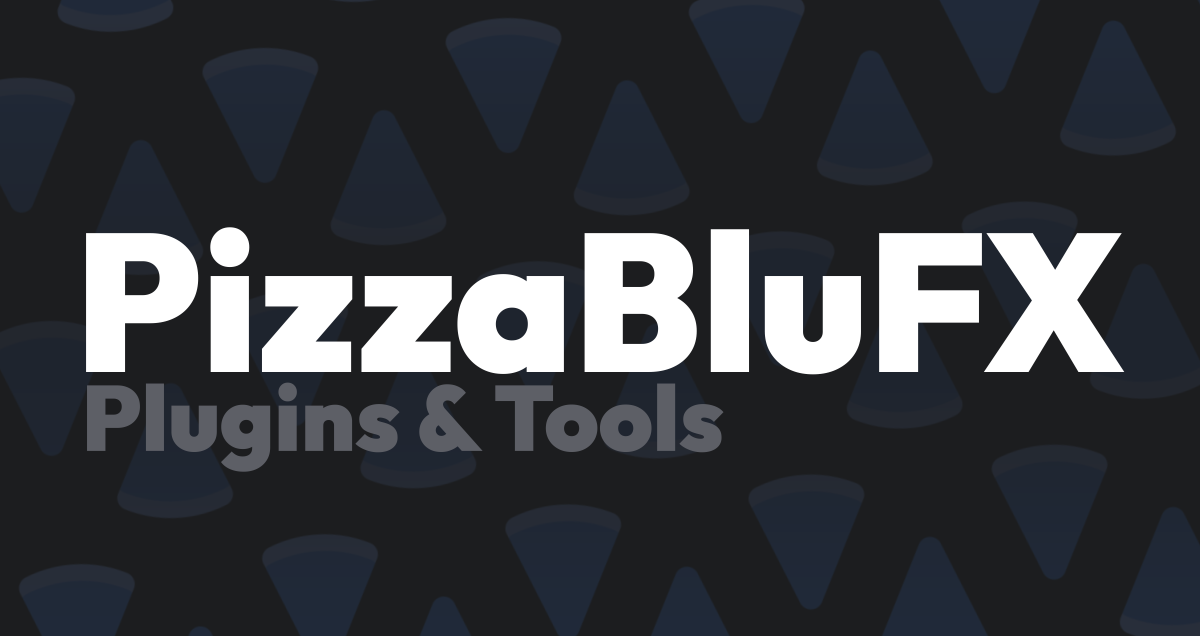
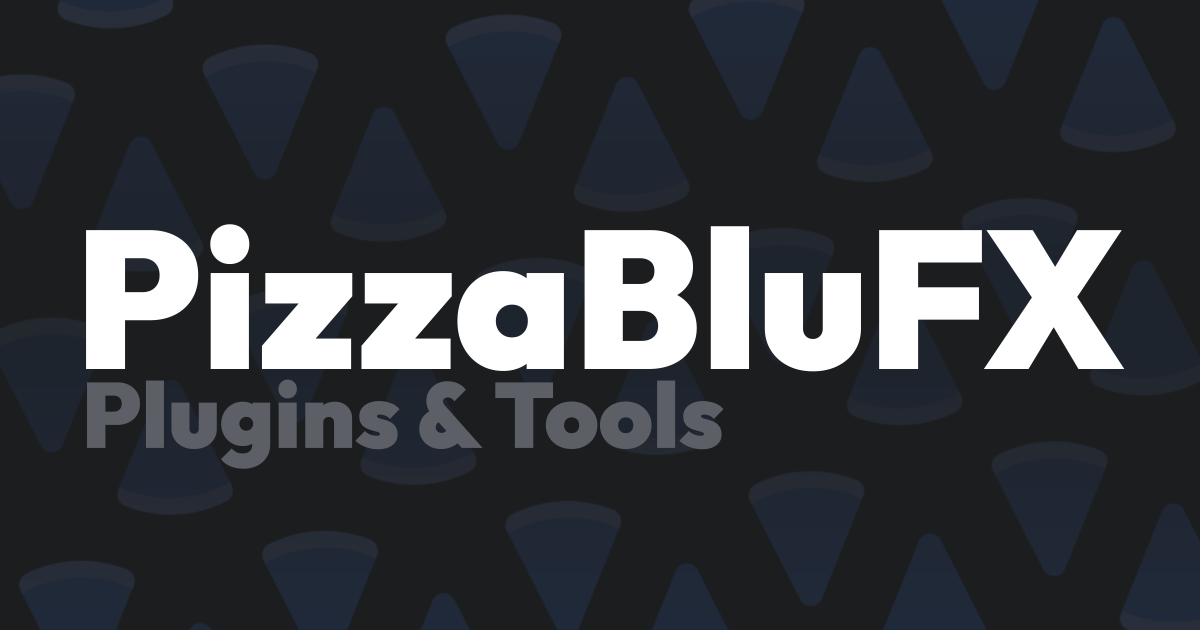
update opengraph

Changed region(s): [[0.185, 0.6937, 0.2158, 0.754], [0.7708, 0.3921, 0.8017, 0.4222]]

diff --git a/index.html b/index.html
@@ -48,8 +48,8 @@
 
         <!-- Open Graph Meta Tags -->
         <meta property="og:type" content="website" />
-        <meta property="og:title" content="PizzaBluFX" />
-        <meta property="og:description" content="The missing tools for DaVinci Resolve." />
+        <meta property="og:title" content="PizzaBluFX Plugins" />
+        <meta property="og:description" content="The missing tools for DaVinci Resolve" />
         <meta property="og:image" content="https://pizzablufx.com/assets/banner.png" />
         <meta property="og:image:width" content="1200" />
         <meta property="og:image:height" content="630" />
@@ -60,8 +60,8 @@
         <meta name="twitter:card" content="summary">
         <meta property="twitter:domain" content="pizzablufx.com">
         <meta property="twitter:url" content="https://pizzablufx.com">
-        <meta name="twitter:title" content="PizzaBluFX">
-        <meta name="twitter:description" content="The missing tools for DaVinci Resolve.">
+        <meta name="twitter:title" content="PizzaBluFX Plugins">
+        <meta name="twitter:description" content="The missing tools for DaVinci Resolve">
         <meta name="twitter:image" content="https://pizzablufx.com/assets/banner.png">
     </head>
     <body style="background-color: #171b1f; color: #ffffff; overflow-x: hidden; width: 100vw; margin: 0; padding: 0; font-family: Outfit, sans-serif;">
